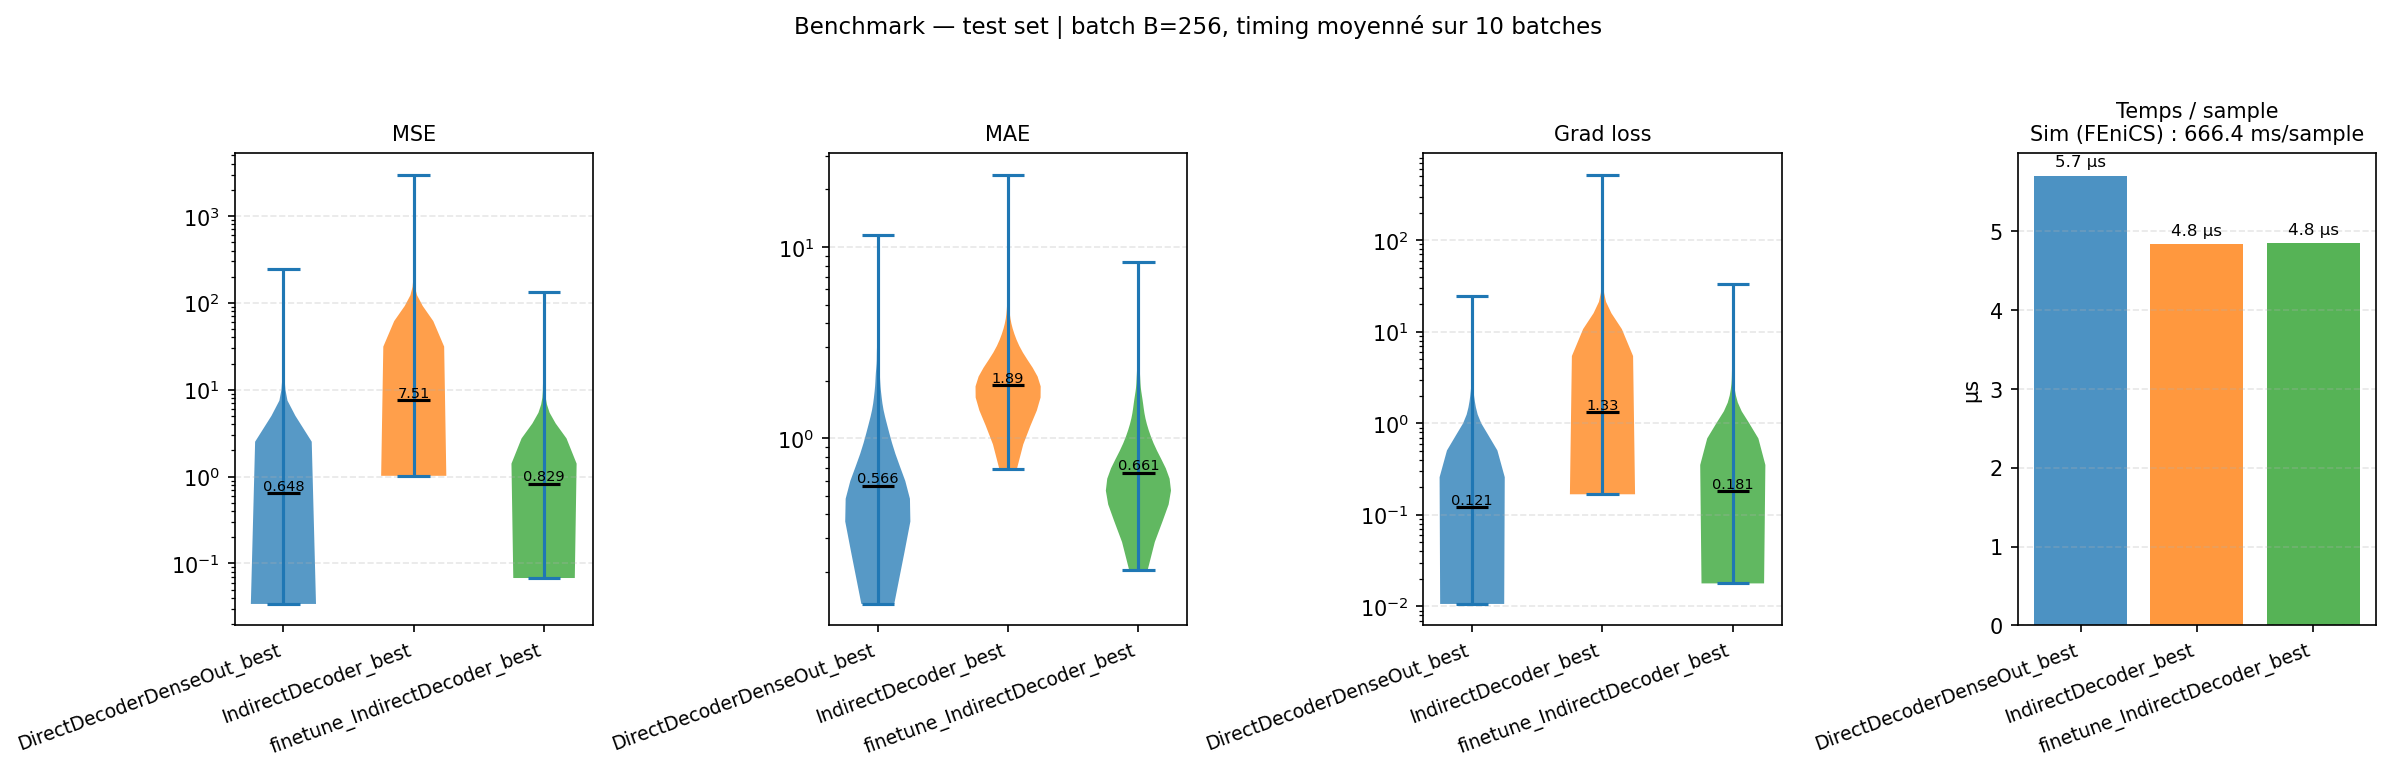
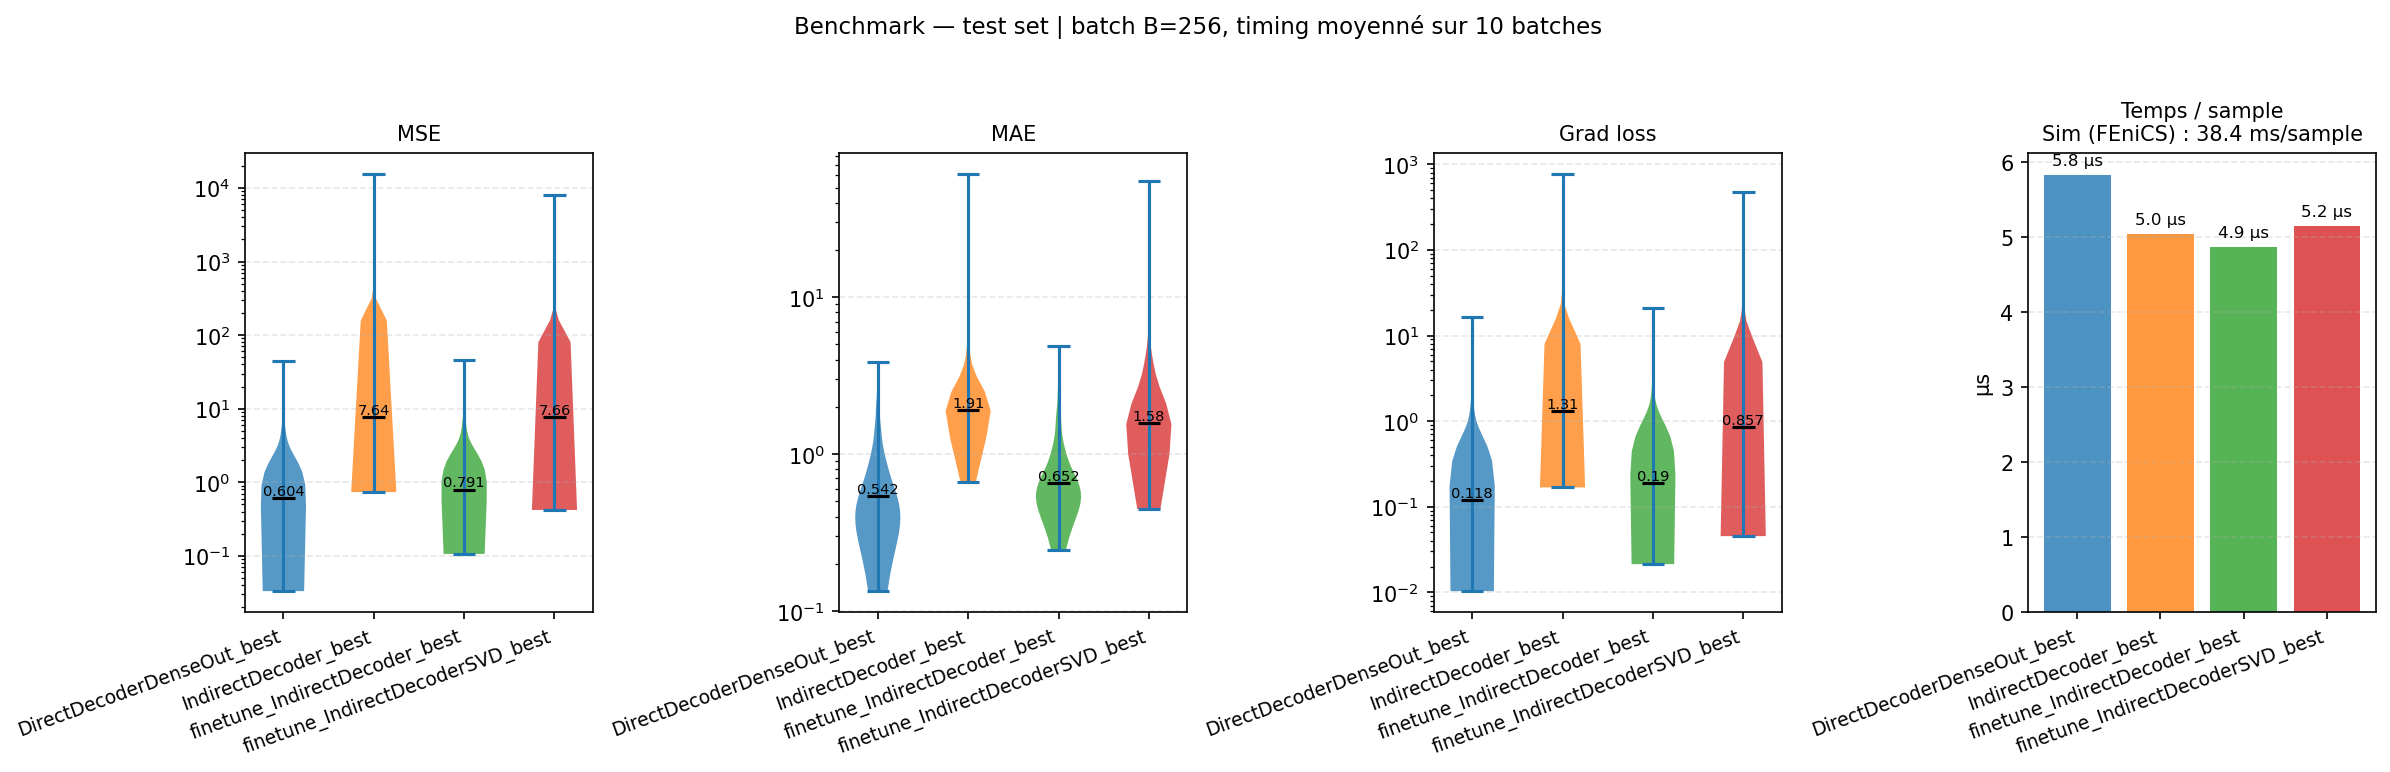
train de svd, puis benchmark

diff --git a/utils/train_decoder.py b/utils/train_decoder.py
@@ -18,6 +18,7 @@ import wandb
 from models.base import BaseDecoder
 from models.direct_decoder import DirectDecoder, DirectDecoderDenseOut
 from models.variationalAutoEncoder import VAE, IndirectDecoder
+from models.AE_SVD import AutoencoderSVD, IndirectDecoderSVD, compute_fixed_svd_basis
 from utils.dataset import ConvDiffDataset
 
 from tqdm import tqdm
@@ -158,7 +159,17 @@ def train(
     wandb.config.update({'n_params': n_params, 'device': str(device)})
     wandb.watch(model, log='gradients', log_freq=50)
 
-    optimizer = torch.optim.AdamW(model.parameters(), lr=lr, weight_decay=1e-5)
+    if model.__class__.__name__ == "IndirectDecoderSVD":
+        U_train = dataset.U[train_set.indices]                  # (N_train, 1, N, N)
+        U_train = dataset.denorm_U(U_train.cpu()).numpy()       # type: ignore
+        model.compute_and_set_fixed_basis(U_train)              # type: ignore
+        optimizer = torch.optim.AdamW([
+            {'params': model.theta_proj.parameters(), 'lr': lr},
+            {'params': model.decoder.parameters(),    'lr': lr * 0.01},
+        ], weight_decay=1e-5)
+    else:
+        optimizer = torch.optim.AdamW(model.parameters(), lr=lr, weight_decay=1e-5)
+
     scheduler = torch.optim.lr_scheduler.ReduceLROnPlateau(
         optimizer, mode='min', factor=0.5, patience=7
     )
@@ -252,16 +263,21 @@ def train(
 
 if __name__ == '__main__':
     dataset = ConvDiffDataset('dataset/dataset.npz')
-    trained_AE = VAE(N=dataset.N, latent_dim=32)
-    trained_AE.load_state_dict(torch.load('checkpoints/VAE_best.pt')['model_state'])
-    model   = IndirectDecoder(trained_AE, N=dataset.N, theta_dim=4, latent_dim=32)
-    model.toogle_grad_decoder() #finetune
+    trained_AE = AutoencoderSVD(N=64, latent_dim=32, kmax=3)
+    trained_AE.load_state_dict(torch.load('checkpoints/AutoencoderSVD_best.pt')['model_state'])
+    model = IndirectDecoderSVD(
+        N=64,
+        kmax=3,
+        theta_dim=4,
+        latent_dim=32,
+        trained_autoencoder=trained_AE,
+    )
     train(
         model,
         dataset_path  = 'dataset/dataset.npz',
         epochs        = 500,
         batch_size    = 128,
-        lr            = 1e-4,
+        lr            = 1e-3,
         patience      = 100,
         seed          = 42,
         project       = 'convdiff',

diff --git a/models/AE_SVD.py b/models/AE_SVD.py
@@ -182,11 +182,11 @@ def compute_fixed_svd_basis(model, x_train, kmax):
         return U_k.to(device)
 
 class IndirectDecoderSVD(BaseDecoder):
-    def __init__(self, N, kmax,theta_dim,latent_dim, learned_basis, trained_decoder):
+    def __init__(self, N, kmax,theta_dim,latent_dim, trained_autoencoder):
         super(IndirectDecoderSVD, self).__init__()
         self.svd_proj = SVDProjection(kmax)
-        self.svd_proj.set_fixed_basis(learned_basis)
-        self.decoder = trained_decoder
+        self.trained_autoencoder = trained_autoencoder
+        self.decoder = trained_autoencoder.decoder
         self.svd_proj.requires_grad_(False)
 
         self.N = N
@@ -195,17 +195,14 @@ class IndirectDecoderSVD(BaseDecoder):
             nn.ReLU(),
             nn.Linear(128, latent_dim),
         )
+    def compute_and_set_fixed_basis(self,U_train):
+        U_k = compute_fixed_svd_basis(self.trained_autoencoder, U_train, self.svd_proj.kmax)
+        self.svd_proj.set_fixed_basis(U_k)
 
-    def set_finetune_lr(self,optimiser):
-        """Reduces the learning rate for the decoder parameters to 1% of the original."""
-        for param_group in optimiser.param_groups:
-            if any(name in str(self.decoder.named_parameters()) for name, _ in self.decoder.named_parameters()):
-                param_group['lr'] *= 0.01
-
-    def forward(self, z):
-        z_k = self.svd_proj(z)  # Proyección con SVD
-        x_recon = self.decoder(z_k)
-        return x_recon
+    def forward(self, theta):
+        z   = self.theta_proj(theta)  # theta (theta_dim,) → latent (latent_dim,)
+        z_k = self.svd_proj(z)        # projection sur la base SVD fixe
+        return self.decoder(z_k)
 
     def loss(
         self,

diff --git a/main.py b/main.py
@@ -41,6 +41,21 @@ def load_model(ckpt_path: str, device: torch.device):
         dummy_vae  = VAE(N=N, latent_dim=latent_dim)
         model      = IndirectDecoder(dummy_vae, N=N, theta_dim=theta_dim,
                                      latent_dim=latent_dim).to(device)
+    elif model_type == 'IndirectDecoderSVD':
+        from models.AE_SVD import AutoencoderSVD, IndirectDecoderSVD
+        theta_dim  = state['theta_proj.0.weight'].shape[1]
+        latent_dim = state['theta_proj.2.weight'].shape[0]
+        N          = int(state['decoder.out_fc.3.weight'].shape[0] ** 0.5)
+        kmax       = state['svd_proj.fixed_basis_buffer'].shape[1]
+        dummy_ae   = AutoencoderSVD(N=N, latent_dim=latent_dim, kmax=kmax)
+        model      = IndirectDecoderSVD(N=N, kmax=kmax, theta_dim=theta_dim,
+                                        latent_dim=latent_dim,
+                                        trained_autoencoder=dummy_ae).to(device)
+        # Le buffer None n'apparaît pas dans les clés attendues — on l'initialise
+        # pour que load_state_dict puisse le reconnaître et le remplacer.
+        model.svd_proj.set_fixed_basis(
+            torch.zeros(latent_dim, kmax, device=device)
+        )
     else:
         raise ValueError(f"Checkpoint de type '{model_type}' non supporté.")
 

diff --git a/benchmark.py b/benchmark.py
@@ -241,6 +241,7 @@ if __name__ == '__main__':
             'checkpoints/DirectDecoderDenseOut_best.pt',
             'checkpoints/IndirectDecoder_best.pt',
             'checkpoints/finetune_IndirectDecoder_best.pt',
+            "checkpoints/finetune_IndirectDecoderSVD_best.pt",
         ],
         dataset_path   = 'dataset/dataset.npz',
         batch_size     = 256,
